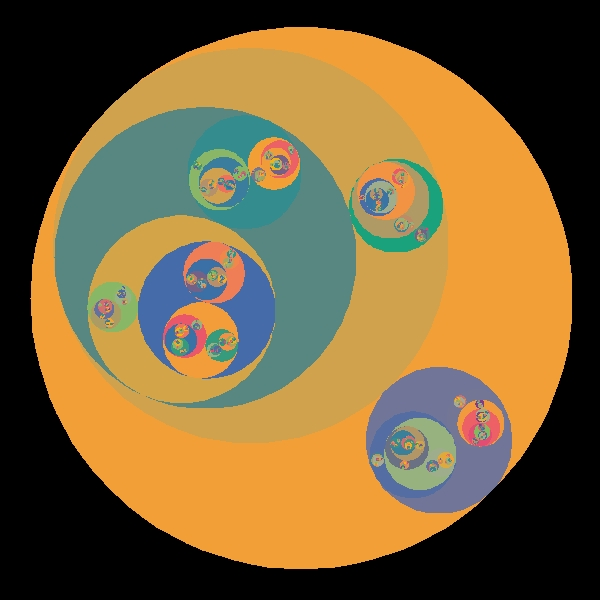
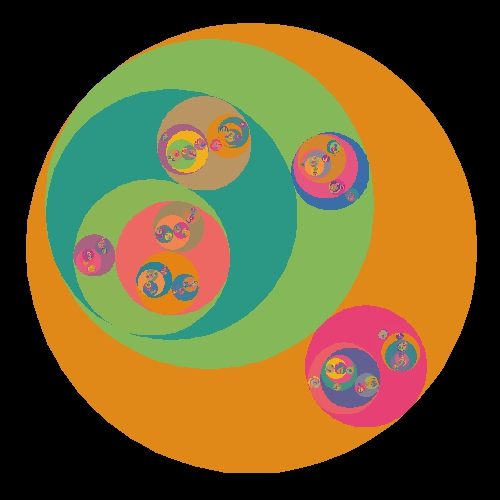
update circles

diff --git a/README.md b/README.md
@@ -17,22 +17,15 @@ remotes::install_github("nrennie/aRt")
 
 ## Colour palettes
 
-Some of the functions in the {aRt} package take names of colour palettes as arguments. These colour palettes come from external R packages, and the names of the palettes are not necessarily obvious. In future, these functions will likely change to allow any choice of colours, rather than restricting a user to a single package from which to choose palettes. 
+Some of the functions in previous releases of the {aRt} package took names of colour palettes as arguments. These colour palettes came from external R packages, and the names of the palettes were not necessarily obvious. These functions have been updated to allow any choice of colours, rather than restricting a user to a single package from which to choose palettes. 
 
-In the meantime, the following colour palette packages are used for the following functions:
-
+# to remove
 - [{rcartocolor}](https://jakubnowosad.com/rcartocolor/)
   - `attraction()`: `main_col` is either a single colour or the name of a colour palette from {rcartocolor}
   - `bubbles()`: `col_palette` is the name of a colour palette from {rcartocolor}
-  - `circles()`: `col_palette` is the name of a colour palette from {rcartocolor}
   - `fading()`: `col_palette` is the name of a colour palette from {rcartocolor}
   - `rectangles()`: `col_palette` is the name of a colour palette from {rcartocolor}
 
-Please use the documentation for these packages to find suitable colour palette names, or run the following code:
-
-```
-rcartocolor::display_carto_all()
-```
 
 ## Functions
 
@@ -135,9 +128,9 @@ bullseye(main_col="black", bg_col="white", s=2021)
 The `circles()` function produces generative art using dendograms and circular graphs.
 
 ``` r
-circles(n=100, smoothness=100, col_palette="Bold", line_col=NA, bg_col="black", s=1234)
-circles(n=10, smoothness=100, col_palette="Bold", line_col=NA, bg_col="#e73f74", s=1234)
-circles(n=2, smoothness=3, col_palette="Bold", line_col="black", bg_col="black", s=1234)
+circles(n=100, smoothness=100, col_palette=rcartocolor::carto_pal(n = 12, "Bold"), line_col=NA, bg_col="black", s=1234)
+circles(n=10, smoothness=100, col_palette=rcartocolor::carto_pal(n = 12, "Bold"), line_col=NA, bg_col="#e73f74", s=1234)
+circles(n=2, smoothness=3, col_palette=rcartocolor::carto_pal(n = 12, "Bold"), line_col="black", bg_col="black", s=1234)
 ```
 <p align="center">
 <img src="https://github.com/nrennie/aRt/blob/main/man/figures/circles1.jpeg?raw=true" width="30%">
